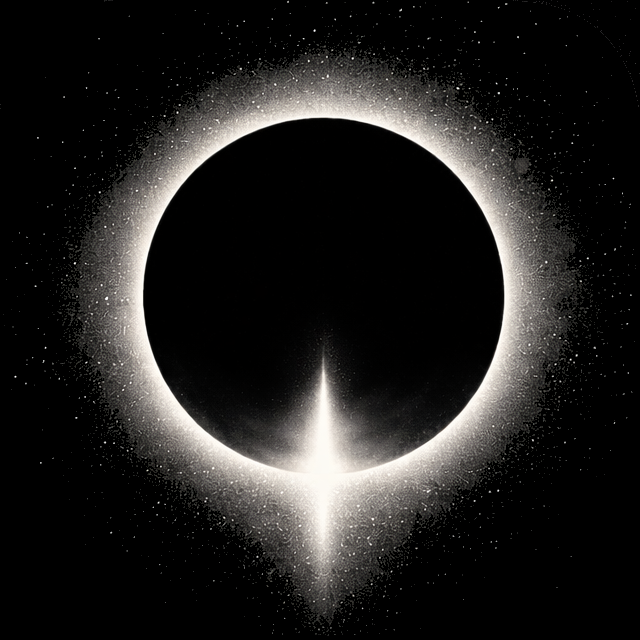
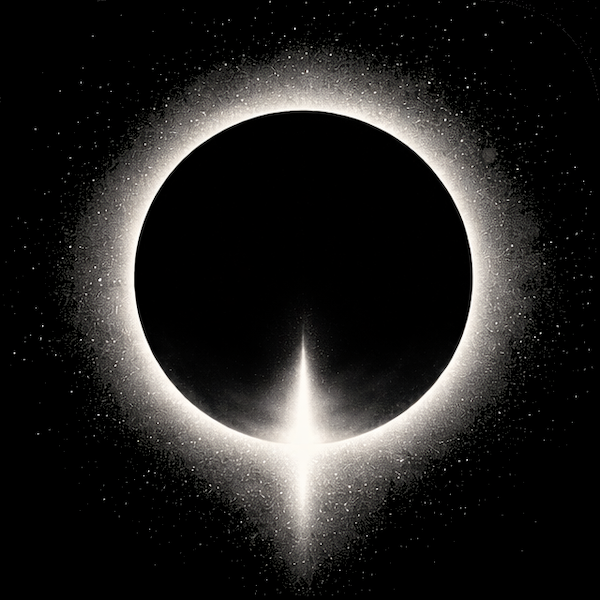
app blocks!

diff --git a/src/pages/index.tsx b/src/pages/index.tsx
@@ -4,9 +4,9 @@ import TerminalAnimation from "@/components/TerminalAnimation";
 const SITE_URL = process.env.NEXT_PUBLIC_APP_URL || process.env.NEXT_PUBLIC_SITE_URL || "";
 const SITE_NAME = "Into The Void";
 const EVENT_DATE = "January 17th";
-const EVENT_TIME = "5PM";
 const EVENT_LOCATION = "STU202";
 const DESCRIPTION = "A gathering in space and transition. Music, art, games, people. Into The Void - January 17th at STU202. Join us for transformation, together.";
+const FEATURED_IMAGE = SITE_URL ? `${SITE_URL}/into-the-void.png` : "/into-the-void.png";
 
 export default function Home() {
   const pageTitle = `${SITE_NAME} - ${EVENT_DATE}`;
@@ -29,6 +29,10 @@ export default function Home() {
         <meta property="og:url" content={SITE_URL} />
         <meta property="og:title" content={pageTitle} />
         <meta property="og:description" content={fullDescription} />
+        <meta property="og:image" content={FEATURED_IMAGE} />
+        <meta property="og:image:width" content="600" />
+        <meta property="og:image:height" content="600" />
+        <meta property="og:image:alt" content="Into The Void - A celestial gathering in space and transition" />
         <meta property="og:site_name" content={SITE_NAME} />
         <meta property="og:locale" content="en_US" />
         
@@ -37,6 +41,8 @@ export default function Home() {
         <meta name="twitter:url" content={SITE_URL} />
         <meta name="twitter:title" content={pageTitle} />
         <meta name="twitter:description" content={fullDescription} />
+        <meta name="twitter:image" content={FEATURED_IMAGE} />
+        <meta name="twitter:image:alt" content="Into The Void - A celestial gathering in space and transition" />
         
         {/* Event-specific metadata */}
         <meta name="event:start_time" content="2025-01-17T17:00:00-05:00" />
